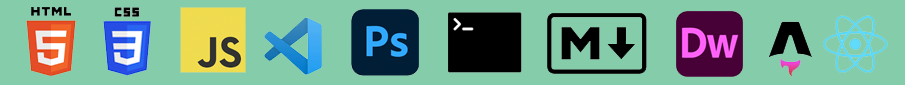
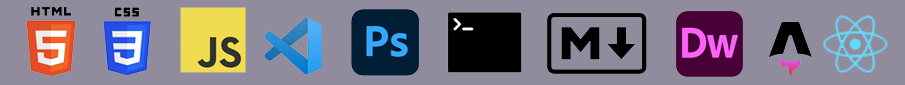
Updated

diff --git a/src/styles/global.css b/src/styles/global.css
@@ -4,8 +4,8 @@
 :root {
   /* --color-primary: #2d6858;
   --color-secondary: #f0ad4a; */
-  --color-primary: #bec7d6;
-  --color-secondary: #e3fefe;
+  --color-primary:#BEC7D6;
+  --color-secondary:#7A90AC;
 }
 html {
   font-size: 62.5%;
@@ -101,14 +101,14 @@ li {
   background-color: var(--color-primary);
   /* height: 7rem; */
   height: 9rem;
+
 }
 
 /* Special Header Container Styles */
 
 #pageheader .container {
-  /* background-color: aquamarine; */
-  /* background-color: #fed2eb; */
-  /* border: 2px dashed red; */
+  /* background-color: aquamarine;
+  border: 2px dashed red; */
   display: flex;
   justify-content: space-between;
   align-items: center;
@@ -119,6 +119,7 @@ li {
 .logo img {
   /* height: 6rem; */
   height: 8rem;
+
 }
 
 .logo:hover {
@@ -160,16 +161,12 @@ li {
   border: 0.2rem solid none;
   background-color: var(--color-primary);
   padding: 3rem;
-  background-color: linear-gradient(
-    to bottom,
-    var(--color-primary),
-    var(--color-secondary)
-  );
+  background-color: linear-gradient(to bottom, var(--color-primary), var(--color-secondary));
   background-image: url(images/bacjground.png);
   background-repeat: no-repeat;
   background-size: cover;
   background-attachment: fixed;
-  background-position: center left;
+  background-position: bottom left;
 }
 #showcasetext {
   border: 0.2rem solid none;
@@ -269,7 +266,7 @@ h3 {
 }
 
 .assignments a {
-  color: #2d6858;
+  color: #7A90AC;
 }
 
 /* End Semester Section */
@@ -284,6 +281,11 @@ h3 {
   align-items: center;
   flex-wrap: wrap;
   align-content: center;
+}
+
+.thumbnail img
+{
+  border-radius: 5px;
 }
 
 .thumb {
@@ -312,11 +314,13 @@ h3 {
   color: #fff;
   text-align: center;
   padding: 2rem;
-  padding-top: 6rem;
+  /* padding-top: 6rem; */
+  padding-top: .5rem;
+
 }
 
 #pagefooter .container {
-  background-color: #bdaac9;
+  /* background-color: #bdaac9; */
   /* border: 2px dashed red; */
   display: flex;
   justify-content: space-evenly;
@@ -332,7 +336,8 @@ h3 {
 }
 
 #pagefooter h3 {
-  padding-bottom: 3rem;
+    padding-bottom: 3rem;
+
 }
 
 #pagefooter #quote {
@@ -348,19 +353,19 @@ h3 {
 /* Media Queries */
 @media only screen and (min-width: 320px) {
   #features {
-    background-color: magenta;
+    background-color: #bec7d6;
   }
 }
 
 @media only screen and (min-width: 480px) {
   #features {
-    background-color: yellow;
+    background-color: #bec7d6;
   }
 }
 
 @media only screen and (min-width: 768px) {
   #features {
-    background-color: lime;
+    background-color: #bec7d6;
   }
 
   .card {
@@ -379,7 +384,7 @@ h3 {
 
 @media only screen and (min-width: 1024px) {
   #features {
-    background-color: coral;
+    background-color: #bec7d6;
   }
 
   #logosbig {
